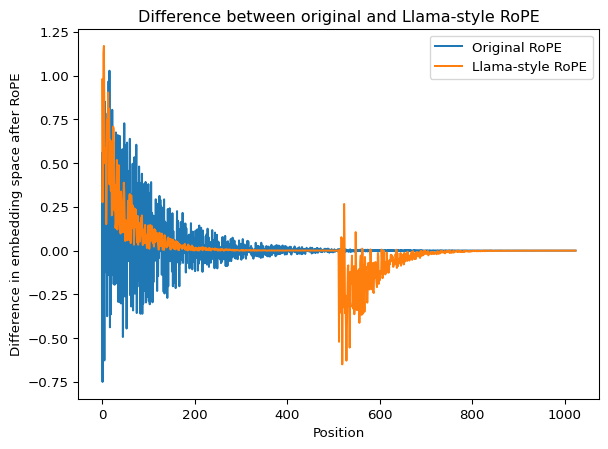
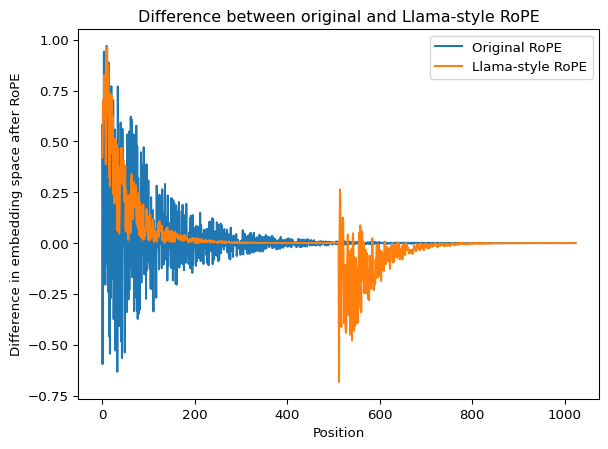
Refactor MoE documentation and code for clarity and consistency
This commit updates the Mixture of Experts (MoE) documentation and related Python code to improve clarity and consistency. Key changes include grammatical corrections, restructuring of scalar multiplier descriptions, and enhancements to the input handling in the model evaluation section. Additionally, a binary image file has been updated to reflect changes in the demo visualizations.

diff --git a/notebooks/MoE.py b/notebooks/MoE.py
@@ -33,7 +33,7 @@
 # ## Changes needed to implement Granite when starting from GPT2
 #
 # ### Rotary position embeddings instead of learned absolute position embeddings
-# Rotary position embeddings employs a clever scheme of rotations that allows for the relative positions of tokens taken into account in the attention blocks. This [demo](https://github.com/crs17/sturnus/blob/main/demos/RoPE.md) visualizes the rotations and resulting attention scores calculated using my [implementation](https://github.com/crs17/sturnus/blob/main/src/sturnus/models/rope.py).
+# Rotary position embeddings employ a clever scheme of rotations that allows for the relative positions of tokens to be taken into account in the attention blocks. This [demo](https://github.com/crs17/sturnus/blob/main/demos/RoPE.md) visualizes the rotations and resulting attention scores calculated using my [implementation](https://github.com/crs17/sturnus/blob/main/src/sturnus/models/rope.py).
 # The Granite model does, however, not implement the original RoPE embeddings where rotation is applied to 2D vectors along the embedding dimension. Instead the Granite model uses llama-style RoPE where the 2D vectors are constructed by pairing $x_i$ with $x_{i+P/2}$.
 
 # %%
@@ -73,7 +73,7 @@ ax.legend();
 # Above we see the resulting differences in embedding values after application of the two RoPE styles. Whereas the original RoPE mainly rotates the first embedding dimensions, llama-style RoPE rotates the first dimensions as well as the first part of the second half of the dimension.
 #
 # ### Grouped-query Attention instead of Multi-head Attention
-# Grouped-query attention ([demo](https://github.com/crs17/sturnus/blob/main/demos/Grouped-query_attention.md) and [implementation](https://github.com/crs17/sturnus/blob/main/src/sturnus/models/gqa.py)) optimises required compute and memory by sharing key and value head between grouped query heads. I implemented a Group-query attention block with RoPE as part of the [Granite](https://github.com/crs17/sturnus/blob/main/src/sturnus/models/granite.py) implementation.
+# Grouped-query attention ([demo](https://github.com/crs17/sturnus/blob/main/demos/Grouped-query_attention.md) and [implementation](https://github.com/crs17/sturnus/blob/main/src/sturnus/models/gqa.py)) optimises required compute and memory by sharing key and value head between grouped query heads. I implemented a Grouped-query attention block with RoPE as part of the [Granite](https://github.com/crs17/sturnus/blob/main/src/sturnus/models/granite.py) implementation.
 #
 # ### RMSNorm instead of LayerNorm
 # RMSNorm is implemented as part of the [Granite](https://github.com/crs17/sturnus/blob/main/src/sturnus/models/granite.py) model.
@@ -86,8 +86,9 @@ ax.legend();
 #
 #
 # ### Some scalar multipliers
-# Four different scalar multipliers was added at different places in the model to ensure consistency with the official Granite model. These include:
-# - An attention multiplier of $1/64$. As the per-head embedding dimension is 64 this corresponds to [muP scaling](https://arxiv.org/abs/2203.03466) rather than the usual $\sqrt(P)$ scaling
+# Four different scalar multipliers were added at different places in the model to ensure consistency with the official Granite model. These include:
+#
+# - An attention multiplier of $1/64$. As the per-head embedding dimension is 64 this corresponds to [muP scaling](https://arxiv.org/abs/2203.03466) rather than the usual $1/\sqrt{P}$ scaling
 # - An embedding multiplier of 12.0
 # - A logits scaling factor of 6.0
 # - A residual multiplier of 0.22
@@ -165,7 +166,11 @@ hf_model.eval()
 granite.eval()
 
 input_ids = text_to_tokens(start_context, tokenizer)
-batched_input_ids = input_ids.repeat(2, 1)
+
+input_ids_a = text_to_tokens(start_context, tokenizer)
+input_ids_b = text_to_tokens("Some other sentence about rocks and mountains ...", tokenizer)
+n = min(input_ids_a.shape[1], input_ids_b.shape[1])
+batched_input_ids = torch.cat([input_ids_a[:, :n], input_ids_b[:, :n]])
 
 with torch.no_grad():
     hf_logits = hf_model(batched_input_ids).logits

diff --git a/demos/MoE.md b/demos/MoE.md
@@ -64,9 +64,9 @@ Mixture of Experts - so we need to implement these as well.
 
 ### Rotary position embeddings instead of learned absolute position embeddings
 
-Rotary position embeddings employs a clever scheme of rotations that
-allows for the relative positions of tokens taken into account in the
-attention blocks. This
+Rotary position embeddings employ a clever scheme of rotations that
+allows for the relative positions of tokens to be taken into account in
+the attention blocks. This
 [demo](https://github.com/crs17/sturnus/blob/main/demos/RoPE.md)
 visualizes the rotations and resulting attention scores calculated using
 my
@@ -126,8 +126,8 @@ Grouped-query attention
 and
 [implementation](https://github.com/crs17/sturnus/blob/main/src/sturnus/models/gqa.py))
 optimises required compute and memory by sharing key and value head
-between grouped query heads. I implemented a Group-query attention block
-with RoPE as part of the
+between grouped query heads. I implemented a Grouped-query attention
+block with RoPE as part of the
 [Granite](https://github.com/crs17/sturnus/blob/main/src/sturnus/models/granite.py)
 implementation.
 
@@ -150,13 +150,17 @@ $$\text{SwiGLU}(x) =  W_2(\text{Swish}(xW) \odot xV)$$
 
 ### Some scalar multipliers
 
-Four different scalar multipliers was added at different places in the
+Four different scalar multipliers were added at different places in the
 model to ensure consistency with the official Granite model. These
-include: - An attention multiplier of $1/64$. As the per-head embedding
-dimension is 64 this corresponds to [muP
-scaling](https://arxiv.org/abs/2203.03466) rather than the usual
-$\sqrt(P)$ scaling - An embedding multiplier of 12.0 - A logits scaling
-factor of 6.0 - A residual multiplier of 0.22
+include:
+
+- An attention multiplier of $1/64$. As the per-head embedding dimension
+  is 64 this corresponds to [muP
+  scaling](https://arxiv.org/abs/2203.03466) rather than the usual
+  $1/\sqrt{P}$ scaling
+- An embedding multiplier of 12.0
+- A logits scaling factor of 6.0
+- A residual multiplier of 0.22
 
 ## Instantiate Granite Model
 
@@ -243,7 +247,11 @@ hf_model.eval()
 granite.eval()
 
 input_ids = text_to_tokens(start_context, tokenizer)
-batched_input_ids = input_ids.repeat(2, 1)
+
+input_ids_a = text_to_tokens(start_context, tokenizer)
+input_ids_b = text_to_tokens("Some other sentence about rocks and mountains ...", tokenizer)
+n = min(input_ids_a.shape[1], input_ids_b.shape[1])
+batched_input_ids = torch.cat([input_ids_a[:, :n], input_ids_b[:, :n]])
 
 with torch.no_grad():
     hf_logits = hf_model(batched_input_ids).logits
@@ -255,7 +263,7 @@ print(torch.allclose(hf_logits, granite_logits, atol=1e-3))
 
     Loading weights:   0%|          | 0/219 [00:00<?, ?it/s]
 
-    tensor(4.1008e-05)
+    tensor(3.5286e-05)
     True
 
 The logits are identical within an acceptable tolerance. So that means
